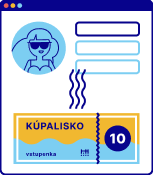
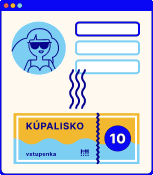
[#135] change primary color (#182)
* [#135] change primary color

* remove unused faq

* change white for sunscreen color in whole app

Changed region(s): [[0.0, 0.0, 1.0, 1.0], [0.4967, 0.1143, 0.915, 0.2286], [0.6797, 0.7143, 0.8627, 0.8857]]

diff --git a/src/pages/TicketsManagementPage/TicketsManagementPage.tsx b/src/pages/TicketsManagementPage/TicketsManagementPage.tsx
@@ -153,24 +153,25 @@ interface TicketProps {
   onDetailClick: () => void
 }
 
+// TODO separate to a new file
 const Ticket = ({ ticket, onDetailClick }: TicketProps) => {
   const { t } = useTranslation()
 
   // BE should not send explicit color, but rather button type, therefore we convert it here to real values instead
   // of using the color from the BE.
   const textClass = {
-    '#07038C': 'text-white',
+    '#0A07F5': 'text-white',
     '#D0ECF8': 'text-primary',
     '#FFFFFF': 'text-primary',
   }[ticket.ticketColor.background]
   const backgroundClass = {
-    '#07038C': 'bg-primary',
+    '#0A07F5': 'bg-primary',
     '#D0ECF8': 'bg-blueish',
     '#FFFFFF': 'bg-white',
   }[ticket.ticketColor.background]
   const buttonColor = (
     {
-      '#07038C': 'white',
+      '#0A07F5': 'white',
       '#D0ECF8': 'primary',
       '#FFFFFF': 'primary',
     } as const
@@ -185,7 +186,11 @@ const Ticket = ({ ticket, onDetailClick }: TicketProps) => {
       <span className="font-semibold mb-3 text-xl text-center">{ticket.type}</span>
       <span className="text-center mb-6">{isOneTimeTicket(ticket) ? '' : ticket.ownerName}</span>
       <div className="flex justify-center">
-        <Button color={buttonColor} className="absolute shadow-xs" onClick={onDetailClick}>
+        <Button
+          color={buttonColor}
+          className="absolute shadow-xs bg-sunscreen"
+          onClick={onDetailClick}
+        >
           {t('tickets.ticket-button')}
           <Icon className="ml-4 no-fill" name="arrow-right" />
         </Button>
@@ -262,7 +267,7 @@ const UsedTicket = ({
   const { t } = useTranslation()
 
   return (
-    <div className="flex px-8 py-6 mb-6 flex-col rounded-lg shadow-xs bg-white">
+    <div className="flex px-8 py-6 mb-6 flex-col rounded-lg shadow-xs bg-sunscreen">
       <div className="flex flex-col pb-6">
         <span>{t('tickets.ticket-type')}</span>
         <span className="font-semibold text-xl">{ticket.type}</span>
@@ -424,7 +429,7 @@ const TicketsManagementPage = () => {
                       '',
                     ]}
                     rows={dataMapped.usedTicketsRows}
-                    rowBackgroundClass="bg-white"
+                    rowBackgroundClass="bg-sunscreen"
                   ></Table>
                 </div>
                 {/* Carousel cannot be in container. */}

diff --git a/src/components/OrderSuccess/TicketsSwiper.tsx b/src/components/OrderSuccess/TicketsSwiper.tsx
@@ -80,7 +80,7 @@ const TicketsSwiper = ({ tickets }: TicketsSwiperProps) => {
       {/* Arrows must be implemented on our own to be outside the swiper. */}
       {displayButtons.previous && (
         <AriaButton
-          className="border-divider border-2 rounded-full w-12 h-12 absolute top-[calc(50%-48px)] -left-6 z-10 flex justify-center items-center bg-white"
+          className="border-divider border-2 rounded-full w-12 h-12 absolute top-[calc(50%-48px)] -left-6 z-10 flex justify-center items-center bg-sunscreen"
           onPress={handlePrevious}
         >
           <Icon name="arrow-left" className="no-fill font-fontBlack" />
@@ -88,7 +88,7 @@ const TicketsSwiper = ({ tickets }: TicketsSwiperProps) => {
       )}
       {displayButtons.next && (
         <AriaButton
-          className="border-divider border-2 rounded-full w-12 h-12 absolute top-[calc(50%-48px)] -right-6 z-10 flex justify-center items-center bg-white"
+          className="border-divider border-2 rounded-full w-12 h-12 absolute top-[calc(50%-48px)] -right-6 z-10 flex justify-center items-center bg-sunscreen"
           onPress={handleNext}
         >
           <Icon name="arrow-right" className="no-fill font-fontBlack" />

diff --git a/src/components/HomepageHowTo/HomepageHowTo.tsx b/src/components/HomepageHowTo/HomepageHowTo.tsx
@@ -29,7 +29,7 @@ const HomepageHowTo = () => {
     () =>
       items.map((item, index) => (
         <div
-          className="relative inline-flex flex-col gap-y-8 items-center flex-1 px-6 pt-16 pb-6 bg-white border-2 rounded-2xl border-secondary"
+          className="relative inline-flex flex-col gap-y-8 items-center flex-1 px-6 pt-16 pb-6 bg-sunscreen border-2 rounded-2xl border-secondary"
           key={index}
         >
           <div className="absolute flex flex-col items-center justify-center bg-secondary rounded-full text-2xl font-semibold text-primary w-16 h-16 -top-8">
@@ -54,7 +54,7 @@ const HomepageHowTo = () => {
         </Typography>
       </div>
       <div className="hidden md:flex container mx-auto justify-center">
-        <div className="inline-flex flex-col gap-y-20 items-center justify-start pt-12 pb-16 bg-white">
+        <div className="inline-flex flex-col gap-y-20 items-center justify-start pt-12 pb-16 bg-sunscreen">
           <div className="grid grid-cols-2 lg:grid-cols-4 gap-8 justify-start max-w-[1216px]">
             {itemsComponents}
           </div>

diff --git a/src/components/Button/Button.tsx b/src/components/Button/Button.tsx
@@ -4,7 +4,7 @@ import './Button.css'
 
 interface ButtonProps {
   // TODO: Rename to `type`.
-  color?: 'primary' | 'secondary' | 'outlined' | 'blueish' | 'white'
+  color?: 'primary' | 'secondary' | 'outlined' | 'blueish' | 'white' | 'sunscreen'
   htmlType?: 'button' | 'submit' | 'reset'
   thin?: boolean
   onClick?: () => void
@@ -30,6 +30,7 @@ const Button = ({
     outlined: 'text-primary',
     blueish: 'text-primary',
     white: 'text-primary',
+    sunscreen: 'text-primary',
   }[color]
   const bgColor = {
     primary: 'bg-primary',
@@ -37,6 +38,7 @@ const Button = ({
     outlined: 'bg-transparent',
     blueish: 'bg-blueish',
     white: 'bg-white',
+    sunscreen: 'bg-sunscreen',
   }[color]
   const borderColor = {
     primary: 'border-primary',
@@ -44,6 +46,7 @@ const Button = ({
     outlined: 'border-primary',
     blueish: 'border-blueish',
     white: 'border-transparent',
+    sunscreen: 'border-transparent',
   }[color]
   const thinClass = thin ? 'p-1' : 'p-2'
   const roundedClass = rounded ? 'rounded-lg' : 'rounded'

diff --git a/src/components/Header/Header.tsx b/src/components/Header/Header.tsx
@@ -69,7 +69,7 @@ const Header = () => {
 
   return (
     <>
-      <div className="bg-white shadow-xs py-3 md:py-4 sticky top-0 z-40 w-full header">
+      <div className="bg-sunscreen shadow-xs py-3 md:py-4 sticky top-0 z-40 w-full header">
         <div className="container mx-auto text-fontBlack flex justify-between">
           <Link className="text-primary font-bold text-xl cursor-pointer" to="/">
             STARZ
@@ -125,7 +125,7 @@ const Header = () => {
         <nav
           className={`${
             open ? 'w-3/4' : 'w-0'
-          } md:hidden overflow-hidden fixed top-0 right-0 bottom-0 flex-col flex flex-1 bg-white transition-all z-10`}
+          } md:hidden overflow-hidden fixed top-0 right-0 bottom-0 flex-col flex flex-1 bg-sunscreen transition-all z-10`}
         >
           <div className="py-12 px-4 flex flex-col flex-1 justify-between">
             <div className="flex flex-col">

diff --git a/src/components/ThreeDots/ThreeDots.tsx b/src/components/ThreeDots/ThreeDots.tsx
@@ -20,14 +20,14 @@ const ThreeDots = ({ buttons }: ThreeDotsProps) => {
         <Icon name="three-dots" className="no-fill" />
       </Button>
       <Popover>
-        <Dialog className="py-2 bg-white inline-flex flex-col items-start rounded-lg drop-shadow-lg overflow-clip">
+        <Dialog className="py-2 bg-sunscreen inline-flex flex-col items-start rounded-lg drop-shadow-lg overflow-clip">
           {({ close }) => (
             <>
               {buttons.map((button, index) => (
                 <Button
                   key={index}
                   className={cx(
-                    'px-5 bg-white gap-2.5 inline-flex items-center self-stretch text-left hover:bg-gray-100',
+                    'px-5 bg-sunscreen gap-2.5 inline-flex items-center self-stretch text-left hover:bg-gray-100',
                     button.className,
                   )}
                   onPress={() => {

diff --git a/src/pages/LandingPage/LandingPage.tsx b/src/pages/LandingPage/LandingPage.tsx
@@ -17,7 +17,7 @@ import HomepageHowTo from '../../components/HomepageHowTo/HomepageHowTo'
 import SwimmingPoolsInfo from 'components/SwimmingPoolsInfo/SwimmingPoolsInfo'
 import { usePreseason } from 'hooks/usePreseason'
 
-const faqsn = range(1, 22)
+const faqsn = range(1, 21)
 
 const LandingPage = () => {
   const preseason = usePreseason()
@@ -27,7 +27,7 @@ const LandingPage = () => {
   const isAuthenticated = status === 'authenticated'
 
   return (
-    <main className="bg-white">
+    <main className="bg-sunscreen">
       <HeroBanner />
       {/* https://github.com/bratislava/kupaliska-starz-fe/issues/138 */}
       {/* this will come back next year, therefore not erasing just commenting out */}

diff --git a/src/components/Dialog/Dialog.tsx b/src/components/Dialog/Dialog.tsx
@@ -36,7 +36,7 @@ const Dialog = ({
       {cloneElement(
         wrapper,
         {},
-        <AriaDialog className="bg-white rounded-lg flex flex-col max-h-[calc(70vh-8px)] max-w-[calc(100vw-8px)]">
+        <AriaDialog className="bg-sunscreen rounded-lg flex flex-col max-h-[calc(70vh-8px)] max-w-[calc(100vw-8px)]">
           <div className="flex flex-row items-center justify-between gap-6 px-6 py-4 border-b-2 border-b-divider">
             <Heading className="text-gray-800 text-xl font-semibold">{title}</Heading>
             <Button onPress={() => onClose()} aria-label="Zatvoriť">

diff --git a/src/components/CookieConsent/CookieConsent.tsx b/src/components/CookieConsent/CookieConsent.tsx
@@ -209,7 +209,7 @@ const CookieConsent = () => {
         ariaDeclineLabel={t('cookie-consent.reject-aria-label')}
         flipButtons
         buttonWrapperClasses="flex flex-wrap gap-x-6 gap-y-3"
-        containerClasses="bg-white rounded-lg container mx-auto shadow-lg mb-4 md:mb-6 flex-col px-10 py-8 gap-y-8"
+        containerClasses="bg-sunscreen rounded-lg container mx-auto shadow-lg mb-4 md:mb-6 flex-col px-10 py-8 gap-y-8"
         contentStyle={{
           flex: undefined, // to override defaults
           margin: undefined, // to override defaults

diff --git a/src/components/HomepageTickets/HomepageTickets.tsx b/src/components/HomepageTickets/HomepageTickets.tsx
@@ -82,7 +82,7 @@ const HomepageTickets = () => {
                   <div
                     key={ticket.id}
                     className={cx(
-                      'px-6 py-4 rounded-lg flex flex-col lg:flex-row gap-8 border border-divider lg:items-center bg-white',
+                      'px-6 py-4 rounded-lg flex flex-col lg:flex-row gap-8 border border-divider lg:items-center bg-sunscreen',
                       { 'cursor-pointer': !ticket.disabled },
                     )}
                     onClick={() => handleClick(ticket)}

diff --git a/src/components/ProfilePage/ProfilePageSwimmers.tsx b/src/components/ProfilePage/ProfilePageSwimmers.tsx
@@ -48,7 +48,7 @@ const ProfilePageSwimmers = () => {
         ></ProfilePageDeleteAssociatedSwimmerModal>
       )}
 
-      <div className="inline-flex flex-col rounded-lg bg-white lg:col-span-5">
+      <div className="inline-flex flex-col rounded-lg bg-sunscreen lg:col-span-5">
         <div className="px-6 py-4 gap-6 flex border-b-2 border-b-divider flex-col sm:flex-row">
           <div className="flex-1 gap-1 flex flex-col flex-grow">
             <p className="text-xl font-semibold">Priradené osoby</p>

diff --git a/src/components/Modal/Modal.tsx b/src/components/Modal/Modal.tsx
@@ -63,7 +63,7 @@ const Modal = ({
           <div className={cx('relative', { 'px-4': closeButton })}>
             <div
               className={cx(
-                'relative bg-white rounded-lg shadow-lg overflow-y-auto',
+                'relative bg-sunscreen rounded-lg shadow-lg overflow-y-auto',
                 modalClassName,
               )}
               /* Calculates max height of modal, subtracts the overflow of button and close button. */
